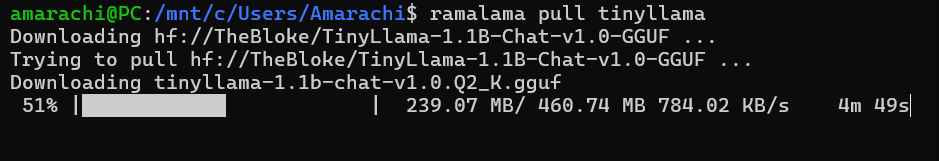
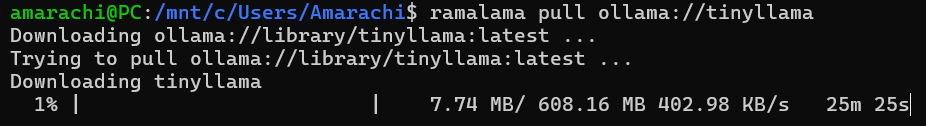
Updated documentation

diff --git a/README.md b/README.md
@@ -8,7 +8,7 @@ take on whether RamaLama lives up to its reputation for making AI
 work boringly simple.
 
 Each section includes the exact commands used, the full output, and
-the reasoning behind each choice made along the way
+the reasoning behind each choice made along the way.
 
 ## System Environment
 
@@ -33,7 +33,7 @@ curl -fsSL https://ramalama.ai/install.sh | bash
 ```
 
 It printed "everything's installed!" but then threw `uv: command not
-found`. The install itself worked but the PATH just wasn't updated yet.
+found`. The install itself worked the PATH just wasn't updated yet.
 I tried `source $HOME/.local/bin/env` and updating `.bashrc` but
 `ramalama version` still came back as not found. This seems to be a
 WSL2 quirk where PATH changes don't always apply cleanly.
@@ -75,7 +75,7 @@ ramalama info
 
 Key things RamaLama detected automatically:
 
-- No GPU detected, selected CPU runtime
+- No GPU selected CPU runtime
 - Container engine: Podman 4.9.3
 - Runtime image: quay.io/ramalama/ramalama:0.18
 - Default runtime: llama.cpp
@@ -85,25 +85,28 @@ Key things RamaLama detected automatically:
 No configuration was needed on my end. RamaLama inspected the system
 and made the right choices itself.
 
-## Step 3: Pulling Model 1 - TinyLlama via Shortname
+## Step 3: Pulling Model 1 - TinyLlama via Ollama Transport
 
 ```bash
-ramalama pull tinyllama
+ramalama pull ollama://tinyllama
 ```
 
-RamaLama resolved the shortname automatically to
-`hf://TheBloke/TinyLlama-1.1B-Chat-v1.0-GGUF` and downloaded it
-from HuggingFace.
+I used the explicit `ollama://` prefix to pull TinyLlama directly
+from the Ollama registry. RamaLama resolved this to
+`ollama://library/tinyllama:latest` and downloaded the model file.
 
 
 ![tinyllama-pull-start](screenshots/05-tinyllama-pull-start.png)
 ![tinyllama-pull-complete](screenshots/06-tinyllama-pull-complete.png)
 
-**Transport:** HuggingFace (via built-in shortname)
-**Size:** 460.74 MB, small enough for CPU-only use
+**Transport:** Ollama (explicit ollama:// prefix)
+**Size:** 608.16 MB
+**Speed:** 1.45 MB/s
 
 I picked TinyLlama because it is well known, lightweight, and a
-safe starting point for a CPU-only machine.
+safe starting point for a CPU-only machine. The Ollama registry is
+also RamaLama's default transport, making it the natural first
+choice to explore.
 
 ## Step 4: Running Model 1
 
@@ -112,33 +115,35 @@ On first run, RamaLama silently pulled the inference runtime container
 took a few minutes but only happens once.
 
 ```bash
-ramalama run tinyllama "What are the Four Foundations of the Fedora project?"
+ramalama run ollama://tinyllama "What are the Four Foundations of the Fedora project?"
 ```
 
 **Output:**
 ```
-The Four Foundation is the name given by the Fedora project to the
-four components that make up the project:
+The Four Foundation of the Fedora project are:
 
-1. Fedora: The project's official name and short form of the Fedora
-   operating system.
-2. Fedora Core: A collection of software modules that provide a
-   minimal set of tools and services for users.
-3. Fedora Community: The Fedora community is a community of
-   developers, volunteers, and users who work together to improve
-   the Fedora operating system.
-4. Fedora Education: A project that aims to bring the Fedora
-   operating system to schools and other institutions.
+1. The Fedora community
+2. The Fedora Core team
+3. The Fedora Packaging team
+4. The Fedora documentation team
+
+Fedora is a community-driven project, so the community is the
+foundation for the Fedora project. The Fedora Core team is
+responsible for maintaining and developing the Fedora distribution,
+while the Fedora Packaging team ensures the quality of the Fedora
+packages. The Fedora documentation team is responsible for creating
+and maintaining the Fedora documentation.
 ```
 
 ![tinyllama-run](screenshots/07-tinyllama-run.png)
 
 The correct answer is **Freedom, Friends, Features, and First**.
-TinyLlama got none of them right. It invented four plausible-sounding
-but completely wrong components. The response was structured and
-confident, which made the hallucination harder to spot at first.
+TinyLlama got none of them right. It invented four team-based
+components that sound like real Fedora groups but are not the actual
+Four Foundations. The response was well structured and confident,
+which made the hallucination easy to miss at first glance.
 
-## Step 5: Pulling Model 2 - SmolLM2 via Explicit Transport
+## Step 5: Pulling Model 2 SmolLM2 via Explicit Transport
 
 This time I used the full `huggingface://` prefix to make the
 transport choice explicit:
@@ -152,7 +157,7 @@ ramalama pull huggingface://bartowski/SmolLM2-135M-Instruct-GGUF
 
 **Transport:** HuggingFace (explicit prefix)
 **Size:** 100.57 MB
-**Speed:** 1.58 MB/s, noticeably faster than TinyLlama's pull
+**Speed:** 1.58 MB/s noticeably faster than TinyLlama's pull
 
 SmolLM2 at 135M parameters is less than a quarter the size of
 TinyLlama. I wanted to see if the smaller size affected answer
@@ -184,11 +189,11 @@ The Four Foundations of the Fedora project are:
 
 | | TinyLlama | SmolLM2-135M |
 |---|---|---|
-| Transport | HuggingFace shortname | HuggingFace explicit prefix |
-| Size | 460.74 MB | 100.57 MB |
-| Download speed | 511 KB/s | 1.58 MB/s |
+| Transport | Ollama | HuggingFace |
+| Size | 608.16 MB | 100.57 MB |
+| Download speed | 1.45 MB/s | 1.58 MB/s |
 | Accuracy | Wrong | Wrong |
-| Hallucination style | Invented realistic names | Numbered placeholders |
+| Hallucination style | Invented team names | Numbered placeholders |
 | Response quality | Sounded plausible | Obviously made up |
 
 Both models failed. TinyLlama at least produced names that sounded
@@ -198,7 +203,7 @@ Friends, Features, First.
 
 This is actually the most useful finding from the whole exercise.
 These models do not have reliable knowledge of Fedora-specific facts.
-They need external context, which is exactly what RAG provides.
+They need external context which is exactly what RAG provides.
 Without it, even a confident-sounding answer cannot be trusted.
 
 ## Step 7: Additional Commands
@@ -207,47 +212,43 @@ Without it, even a confident-sounding answer cannot be trusted.
 ramalama list
 ```
 
-```
-NAME                                          MODIFIED        SIZE
-hf://bartowski/SmolLM2-135M-Instruct-GGUF    3 minutes ago   100.57 MB
-hf://TheBloke/TinyLlama-1.1B-Chat-v1.0-GGUF  40 minutes ago  460.74 MB
-```
-
 ![ramalama-list](screenshots/11-ramalama-list.png)
 
 Both models sit in local storage and can be reused without
 re-downloading, similar to how Podman handles container images.
 
 ```bash
-ramalama inspect tinyllama
+ramalama inspect ollama://tinyllama
 ```
 
-```
-TinyLlama-1.1B-Chat-v1.0-GGUF
-   Registry: huggingface
-   Format: GGUF
-   Version: 3
-   Tensors: 201 entries
+
+![ramalama-inspect-tinyllama](screenshots/12-ramalama-inspect-tinyllama.png)
+
+```bash
+ramalama inspect huggingface://bartowski/SmolLM2-135M-Instruct-GGUF
 ```
 
-![ramalama-inspect](screenshots/12-ramalama-inspect.png)
+
+![ramalama-inspect-smollm2](screenshots/13-ramalama-inspect-smollm2.png)
+
+Both models use GGUF format and Version 3, but SmolLM2 has more
+metadata entries (37 vs 23) and more tensors (272 vs 201) despite
+being a much smaller model in file size. This is because SmolLM2
+uses a more modern architecture with a higher number of smaller
+weight layers, while TinyLlama uses fewer but larger ones.
 
 ```bash
 ramalama containers
 ```
 
-```
-CONTAINER ID  IMAGE  COMMAND  CREATED  STATUS  PORTS  NAMES
-```
+![ramalama-containers](screenshots/14-ramalama-containers.png)
 
-![ramalama-containers](screenshots/13-ramalama-containers.png)
-
-Empty. The container was automatically cleaned up after the run
+Empty the container was automatically cleaned up after the run
 finished. Nothing left running in the background.
 
 ## Does RamaLama Make AI Boring?
 
-Honestly, yes, and I mean that positively.
+Honestly, yes and I mean that positively.
 
 Before tools like this, running a local model meant picking a
 backend, installing the right GPU libraries, getting the model in
@@ -269,15 +270,12 @@ install, and the first model run sat silently for several minutes
 while the runtime container downloaded with no progress shown.
 These are real rough edges worth knowing about.
 
-But once past all that, the workflow was consistent every time.
-
 ## Conclusion
 
-The setup took some troubleshooting but the actual workflow of pull,
-run, get a response, was simple and repeatable. Both models
+The setup took some troubleshooting but the actual workflow pull,
+run, get a response was simple and repeatable. Both models
 hallucinated on the Fedora question, which is not a surprise for
-small models without any domain context. It is also exactly the
-problem the RAG project is trying to solve.
+small models without any domain context.
 
 ## References
 
@@ -285,3 +283,4 @@ problem the RAG project is trying to solve.
 - [RamaLama Documentation](https://ramalama.ai)
 - [Fedora Four Foundations](https://docs.fedoraproject.org/en-US/project/)
 - [HuggingFace](https://huggingface.co)
+- [Podman](https://podman.io)
